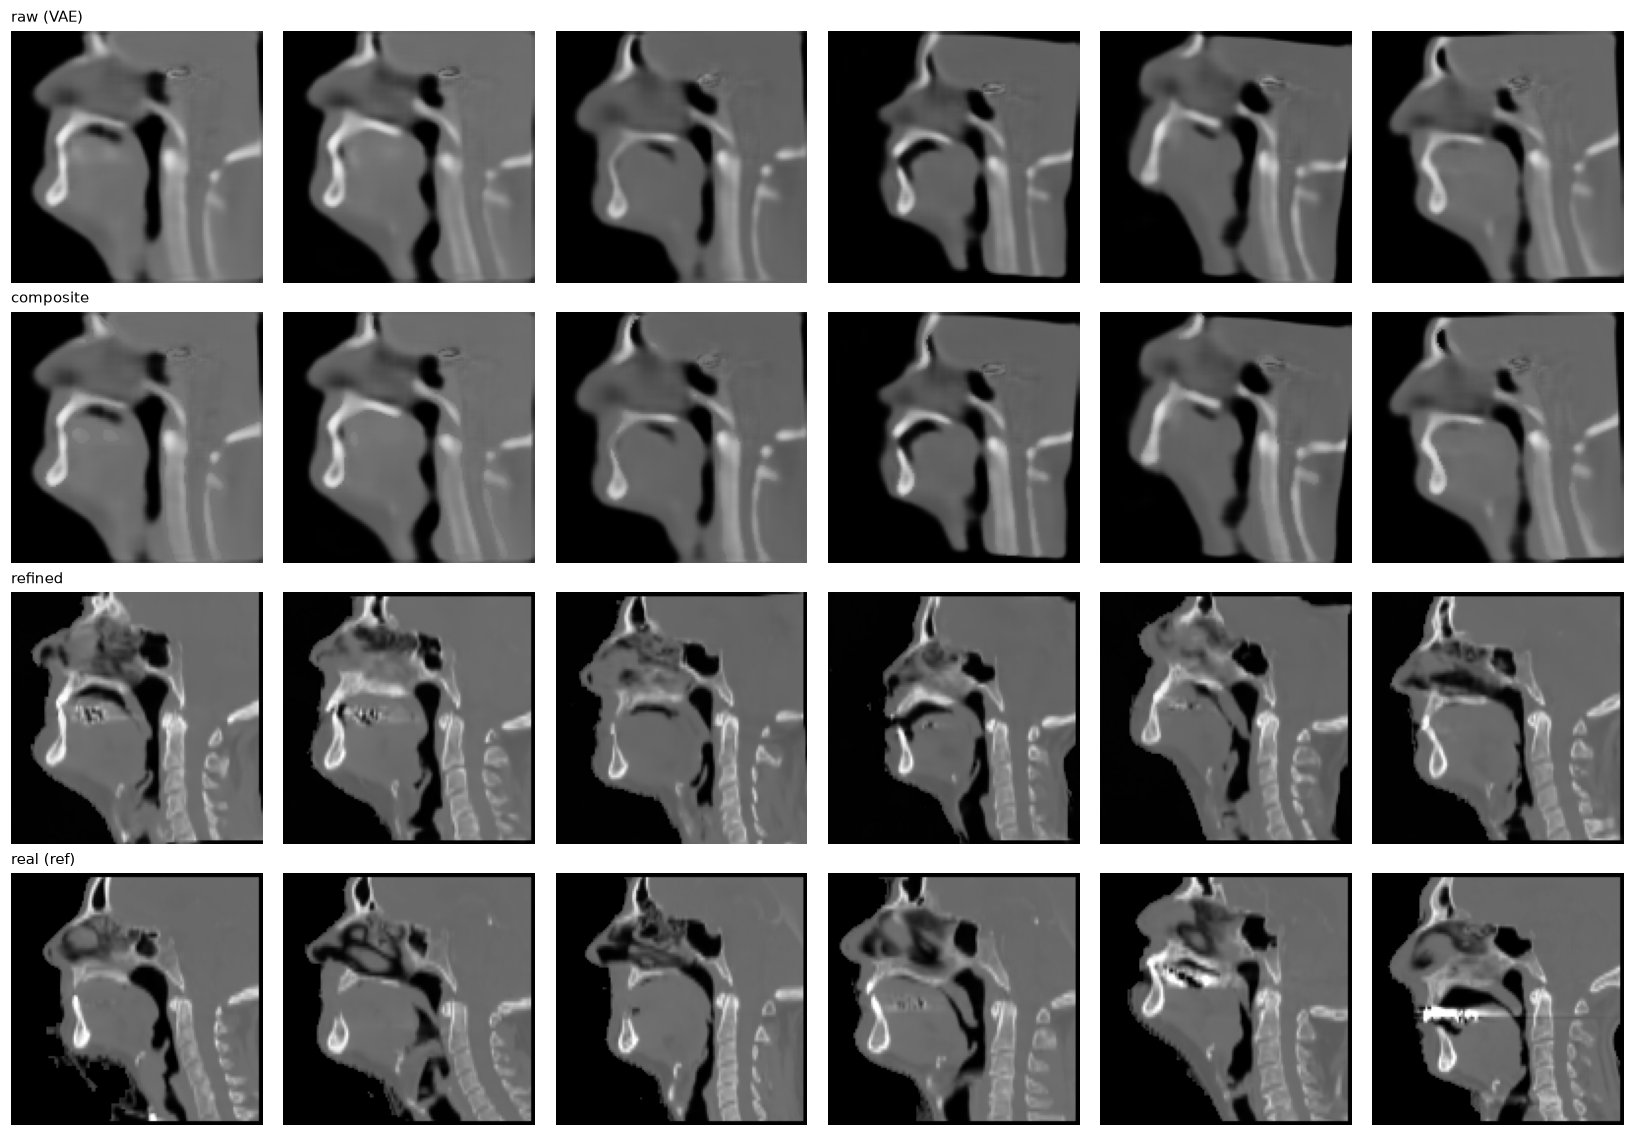
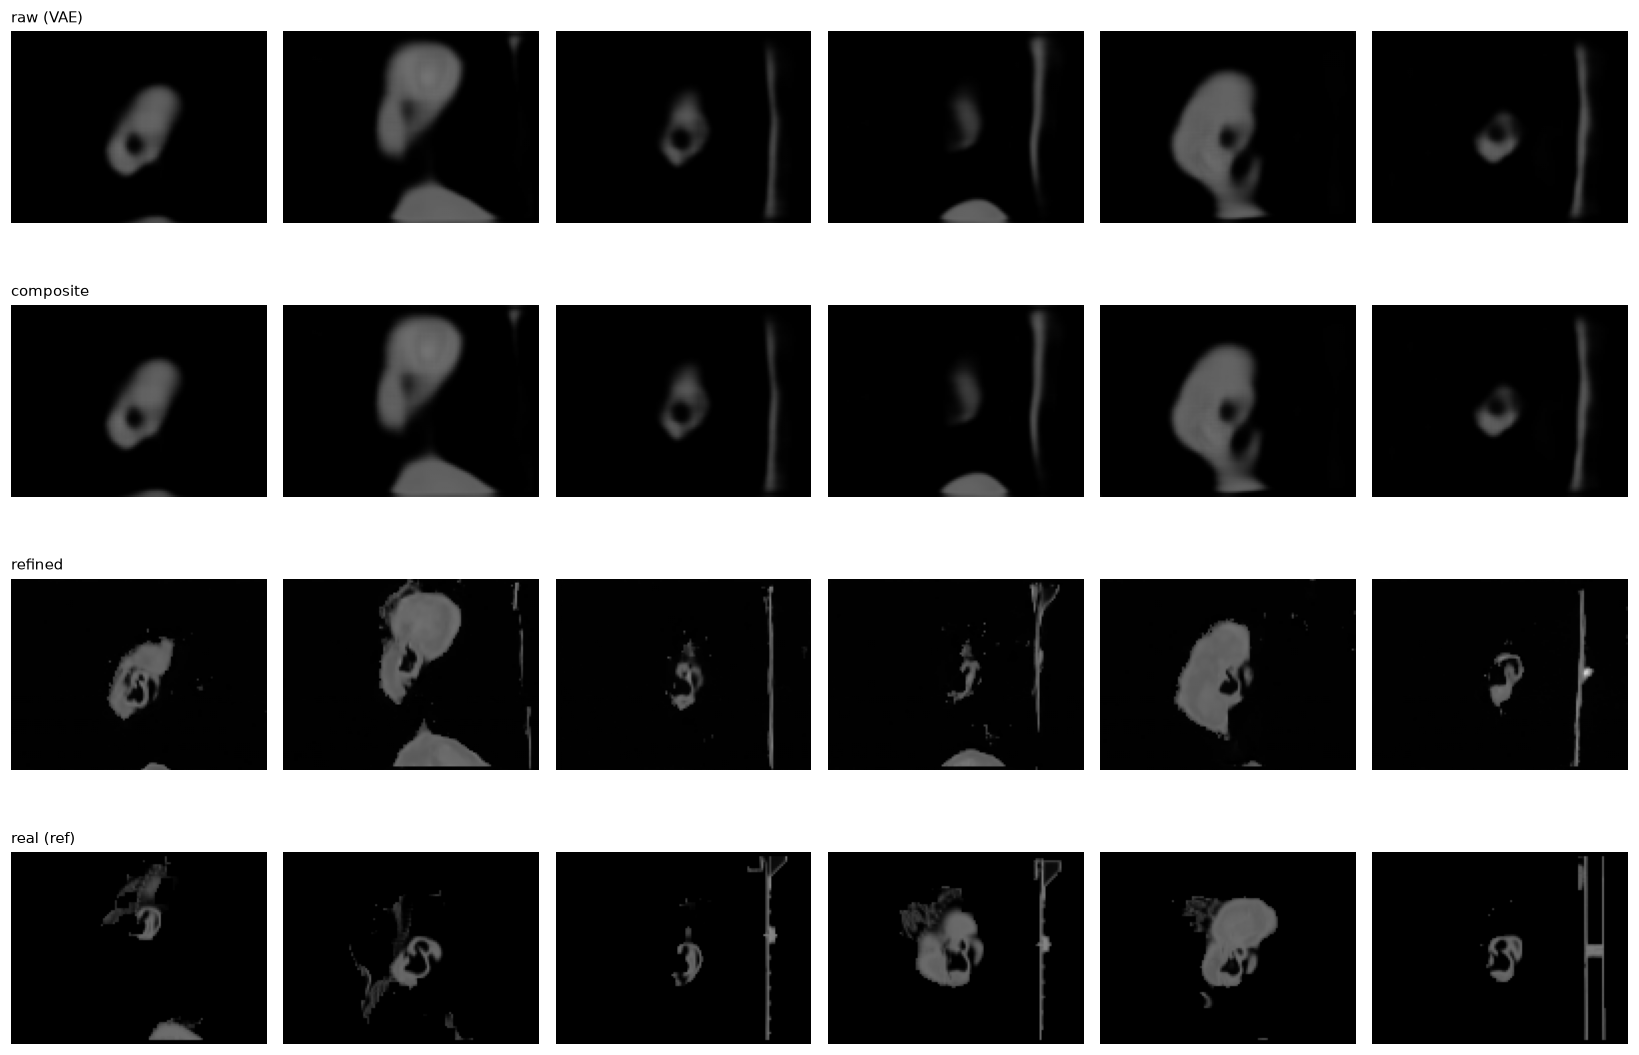
Pin both RNG streams so a published sample can be regenerated
A sample was not reproducible from its recorded seed: the prior draw came from
numpy's RNG, but ddim_sample draws x_T from torch's, which nothing seeded. The
latents were stable and the volumes decoded from them were not, which makes a
saved z useless for regenerating a specific figure.

sample_refined.py now seeds torch and passes an explicit generator to
ddim_sample, and writes two sidecars beside every sample set: latents.npz (the z
plus the fitted prior) and provenance.json (checkpoints, seed, DDIM steps, prior
k and explained variance). The refiner is only valid over the VAE it was trained
against, so recording one checkpoint without the other would not be enough.

latents.npz is a few KB and the figures cannot be regenerated without it, so
.gitignore's blanket *.npz gains an exception for it. Volumes stay opt-in behind
--save-volumes at ~50 MB each.

Sharpness numbers shift slightly (349.9 -> 348.3) because they are now measured
on the seeded draw rather than an unreproducible one. provenance.json also
records what the figures never said: the 'real (ref)' row is the first n corpus
cases shown for calibration and is not paired with the samples above it.

diff --git a/scripts/sample_refined.py b/scripts/sample_refined.py
@@ -29,7 +29,8 @@ from morphome.constants import N_STRUCT
 from morphome.data import HNCache
 from morphome.diffusion import Schedule, UNet3d, UNetConfig, ddim_sample
 from morphome.render import bone_composite, bone_sharpness
-from explore_latent import decode_grid, encode_all, export_nrrd, load_model, wants_bone
+from explore_latent import (decode_grid, encode_all, export_nrrd, load_model,
+                            n_derived, wants_bone)
 from fit_prior import PCAGaussianPrior
 
 
@@ -52,19 +53,27 @@ def main() -> None:
     ap.add_argument("--steps", type=int, default=50)
     ap.add_argument("--seed", type=int, default=1)
     ap.add_argument("--export-nrrd", type=int, default=0)
+    ap.add_argument("--save-volumes", action="store_true",
+                    help="also write the raw/composite/refined arrays (~50 MB each)")
     args = ap.parse_args()
 
     device = torch.device("cuda" if torch.cuda.is_available() else "cpu")
     out = Path(args.out)
     out.mkdir(parents=True, exist_ok=True)
     rng = np.random.RandomState(args.seed)
+    # The diffusion step draws x_T from torch's RNG. Without this the latents are
+    # reproducible but the volumes decoded from them are not, which makes the
+    # saved z useless for regenerating a specific sample.
+    torch.manual_seed(args.seed)
+    gen = torch.Generator(device=device)
+    gen.manual_seed(args.seed)
 
     vae, vcfg, _ = load_model(args.vae_ckpt, device, prefer_ema=True)
     if not wants_bone(vcfg):
         raise SystemExit("needs a bone-channel VAE")
     net, sched, _ = load_refiner(args.refiner, device)
 
-    ds = HNCache(args.cache, with_bone=True, in_memory=False)
+    ds = HNCache(args.cache, derived=n_derived(vcfg), in_memory=False)
     spacing = float(ds.meta.get("grid", {}).get("spacing", 1.6))
     mu, _ = encode_all(vae, ds, device)
     prior = PCAGaussianPrior(mu, var_target=0.90)
@@ -79,7 +88,8 @@ def main() -> None:
     refined = np.empty_like(raw)
     for i in range(args.n):
         cond = torch.cat([cts[i:i + 1], probs[i:i + 1]], dim=1).to(device)
-        refined[i] = ddim_sample(net, sched, cond, steps=args.steps)[0, 0].float().cpu().numpy()
+        refined[i] = ddim_sample(net, sched, cond, steps=args.steps,
+                                 generator=gen)[0, 0].float().cpu().numpy()
         print(f"  refined sample {i}")
 
     real = np.stack([ds[i]["ct"][0].numpy() for i in range(args.n)])
@@ -106,6 +116,33 @@ def main() -> None:
     (out / "sharpness.json").write_text(json.dumps(
         {k: {"per_sample": v, "mean": float(np.nanmean(v))} for k, v in stats.items()},
         indent=2))
+
+    # Provenance. A sample is worthless without the z that produced it and the
+    # exact weights that decoded it: the refiner is only valid over the VAE it
+    # was trained against, and both RNG streams have to be pinned to reproduce a
+    # specific volume.
+    np.savez_compressed(
+        out / "latents.npz", z=z.numpy(),
+        prior_mean=prior.mean, prior_components=prior.components,
+        prior_coord_mean=prior.coord_mean, prior_chol=prior.chol,
+        prior_resid_std=np.float32(prior.resid_std))
+    (out / "provenance.json").write_text(json.dumps({
+        "vae_ckpt": args.vae_ckpt, "refiner": args.refiner,
+        "seed": args.seed, "ddim_steps": args.steps, "n": args.n,
+        "prior": {"kind": "PCAGaussian", "k": int(prior.k),
+                  "explained": float(prior.explained),
+                  "var_target": 0.90, "fit_on_cases": len(ds)},
+        "latent_dim": int(z.shape[1]),
+        "note": "z rows correspond to sample index; regenerate with the same "
+                "--seed and checkpoints. The 'real (ref)' row in the figure is "
+                "the first n corpus cases and is NOT paired with the samples.",
+    }, indent=2))
+    print(f"wrote {out/'latents.npz'} and provenance.json")
+
+    if args.save_volumes:
+        np.savez_compressed(out / "volumes.npz", raw=raw, composite=comp,
+                            refined=refined, masks=(prob_np > 0.5))
+        print(f"wrote {out/'volumes.npz'}")
 
     if args.export_nrrd > 0:
         for i in range(min(args.export_nrrd, args.n)):

diff --git a/README.md b/README.md
@@ -260,8 +260,15 @@ Mean |grad HU| across the bone surface of **generated** samples (n=6):
 |---|---|---|
 | raw VAE | 230.0 | — |
 | composite render | 238.2 | 7 % |
-| **diffusion refined** | **349.9** | **~100 %** |
+| **diffusion refined** | **348.3** | **~100 %** |
 | real cases | 345.6 | — |
+
+Every published sample set carries `latents.npz` (the `z` that produced it, plus
+the fitted prior) and `provenance.json` (checkpoints, seed, DDIM steps). Both RNG
+streams are pinned — numpy for the prior draw, torch for the diffusion `x_T` —
+so `sample_refined.py` regenerates a given figure bit-for-bit. Note that the
+`real (ref)` row in those figures is the first n corpus cases shown for
+calibration; it is **not** paired with the samples above it.
 
 **Sharpness alone proves nothing** — it is maximised by plausible noise, and an
 untrained net scores 991. The test that matters is held-out *reconstruction*
@@ -299,7 +306,7 @@ pattern — is invented, not inferred: none of it is in the 32-d latent. That is
 fine for synthetic anatomy, which is the entire output here, but a refined volume
 can never support a claim about a real patient's imaging.
 
-This retires the composite renderer (238 vs 350) and most of TODO item 4.
+This retires the composite renderer (238 vs 348) and most of TODO item 4.
 
 ### The aggregate posterior never matches N(0, I) — use `scripts/fit_prior.py`
 
